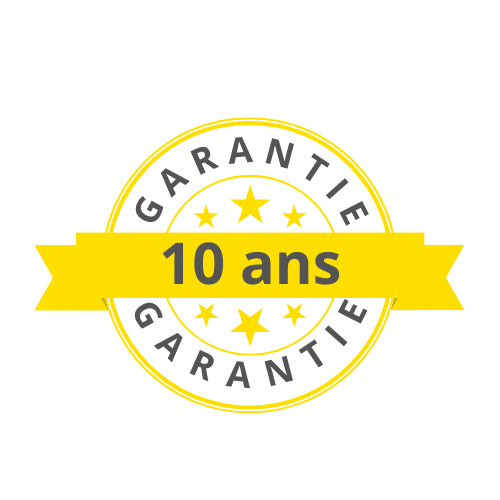
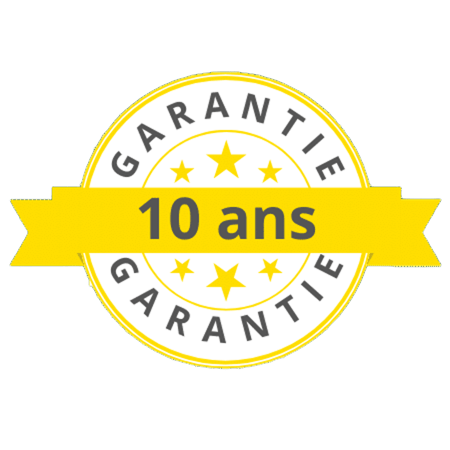
Update graf system component : needs to update header responsive

Changed region(s): [[0.0, 0.1556, 0.9956, 0.84]]

diff --git a/maurice-havard-react/src/components/GrafSystem/graf-system.scss b/maurice-havard-react/src/components/GrafSystem/graf-system.scss
@@ -84,16 +84,15 @@
     }
 
     .graf-images {
-        position: relative;
-        z-index: 2;
+        padding: 2rem;
+        display: flex;
+        flex-direction: column;
+        gap: 1.6rem;
+        align-items: center;
 
         .main-image {
-            position: relative;
-            margin-bottom: 1.5rem;
             padding: 1.5rem;
-            background: white;
             border-radius: 12px;
-            box-shadow: 0 5px 20px rgba(0, 0, 0, 0.1);
             transition: transform 0.3s ease;
 
             &:hover {
@@ -103,22 +102,17 @@
             img {
                 width: 100%;
                 height: auto;
-                max-height: 250px;
-                object-fit: contain;
+                max-height: 100%;
+                object-fit: cover;
             }
         }
 
         .secondary-image {
-            position: relative;
-            padding: 0.75rem;
-            background: white;
-            border-radius: 8px;
-            box-shadow: 0 3px 15px rgba(0, 0, 0, 0.05);
-
+            padding: 0.5rem;
             img {
                 width: 100%;
                 height: auto;
-                max-height: 120px;
+                max-height: 100%;
                 object-fit: contain;
             }
         }
@@ -133,12 +127,6 @@
             padding-right: 0;
             margin-bottom: 3rem;
         }
-
-        .graf-images {
-            .main-image {
-                padding: 1rem;
-            }
-        }
     }
 }
 
@@ -151,12 +139,6 @@
                 h2 {
                     font-size: 2rem;
                 }
-            }
-        }
-
-        .graf-images {
-            .main-image {
-                padding: 0.75rem;
             }
         }
     }

diff --git a/maurice-havard-react/src/components/GrafSystem/GrafSystem.js b/maurice-havard-react/src/components/GrafSystem/GrafSystem.js
@@ -3,7 +3,7 @@ import { Container, Row, Col } from 'react-bootstrap';
 import { WOW } from 'wowjs';
 import 'wowjs/css/libs/animate.css';
 import logoGraf from '../../assets/img/logo-graf.png';
-import garantie2 from '../../assets/img/garantie2.png';
+import garantie2 from '../../assets/img/garantie1.png';
 import './graf-system.scss';
 
 const GrafSystem = () => {
@@ -14,8 +14,8 @@ const GrafSystem = () => {
     return (
         <div className="graf-system">
             <Container>
-                <Row className="align-items-center">
-                    <Col lg={6} className="wow fadeInLeft" data-wow-delay="0.1s">
+                <Row className="align-items-center justify-content-between">
+                    <Col lg={7} className="wow fadeInLeft" data-wow-delay="0.1s">
                         <div className="graf-content">
                             <div className="section-title">
                                 <h2 className="mb-4">Pourquoi choisir GRAF ?</h2>
@@ -61,7 +61,7 @@ const GrafSystem = () => {
                             </div>
                         </div>
                     </Col>
-                    <Col lg={6} className="wow fadeInRight" data-wow-delay="0.1s">
+                    <Col lg={4} className="wow fadeInRight" data-wow-delay="0.1s">
                         <div className="graf-images">
                             <div className="main-image">
                                 <img src={logoGraf} alt="Logo GRAF" />

diff --git a/maurice-havard-react/src/pages/About/About.js b/maurice-havard-react/src/pages/About/About.js
@@ -2,7 +2,6 @@ import React, { useEffect, useState } from 'react';
 import { Link } from 'react-router-dom';
 import AOS from 'aos';
 import AboutImage from '../../assets/img/home2.jpg';
-import ProjectShowcase from '../../components/ProjectShowcase/ProjectShowcase';
 import "./about.scss";
 
 function About() {
@@ -72,7 +71,7 @@ function About() {
       {/* About End */}
 
       {/* Facts Start */}
-      <div className="container-fluid facts my-5 py-5" data-parallax="scroll" data-image-src="img/carousel-1.jpg">
+      <div className="container-fluid facts my-5 py-5" data-parallax="scroll">
         <div className="container py-5">
           <div className="row g-5">
             <div className="col-sm-6 col-lg-3 text-center wow fadeIn" data-aos="fade-in" data-aos-delay="30">
